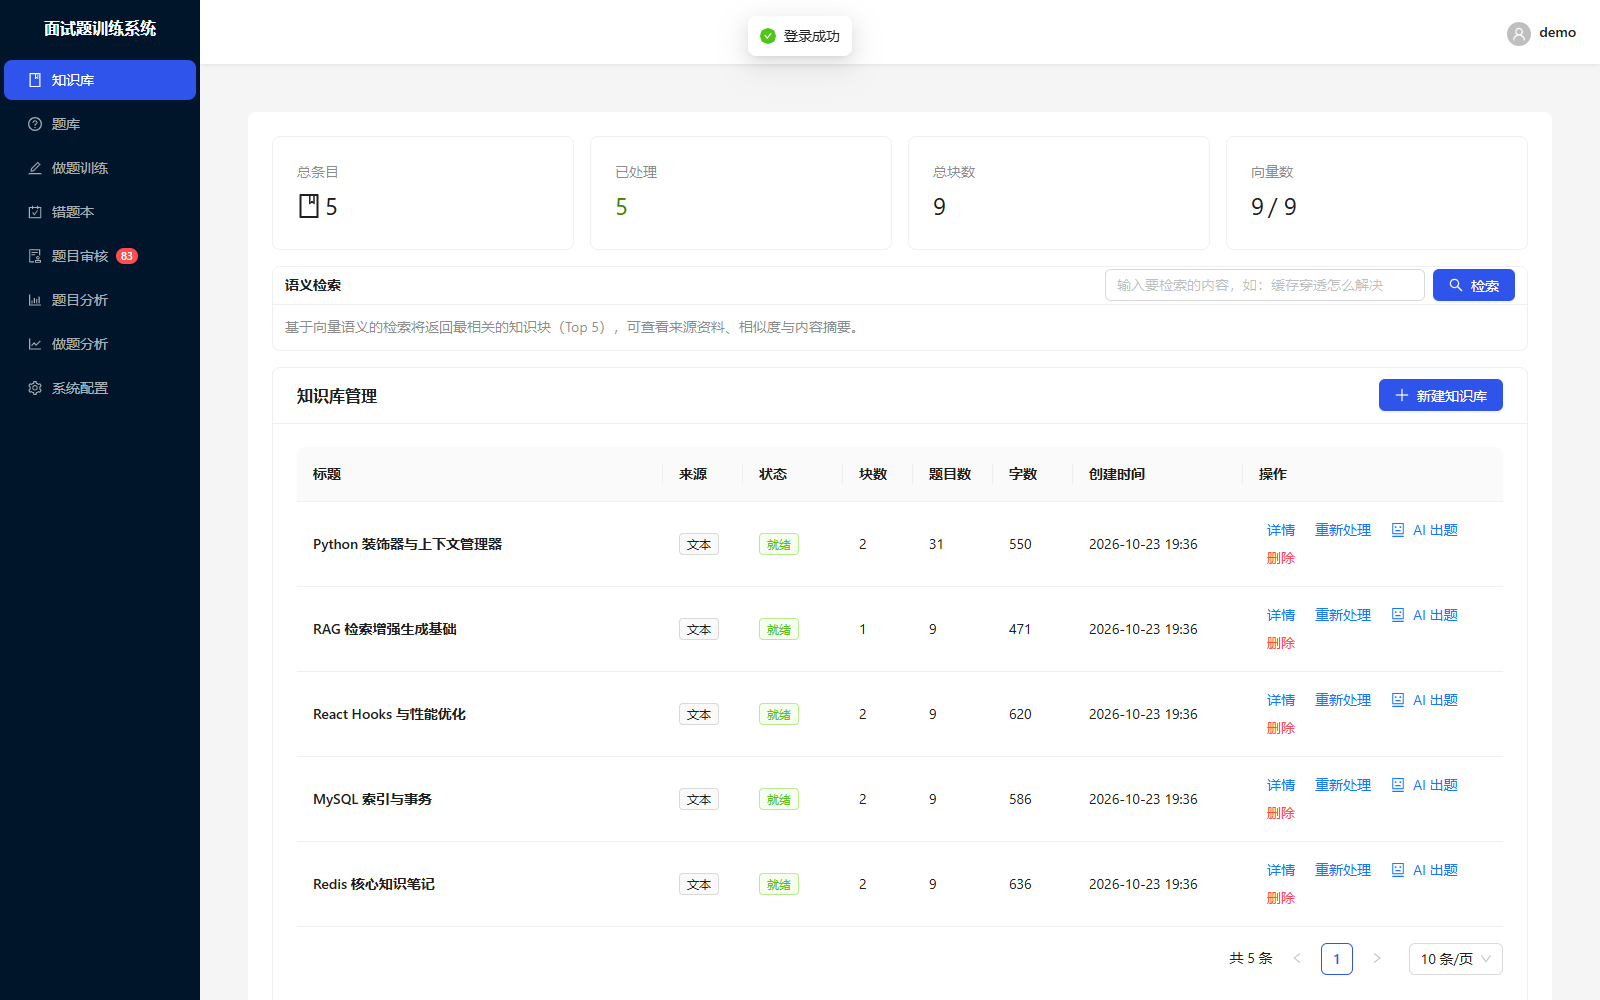
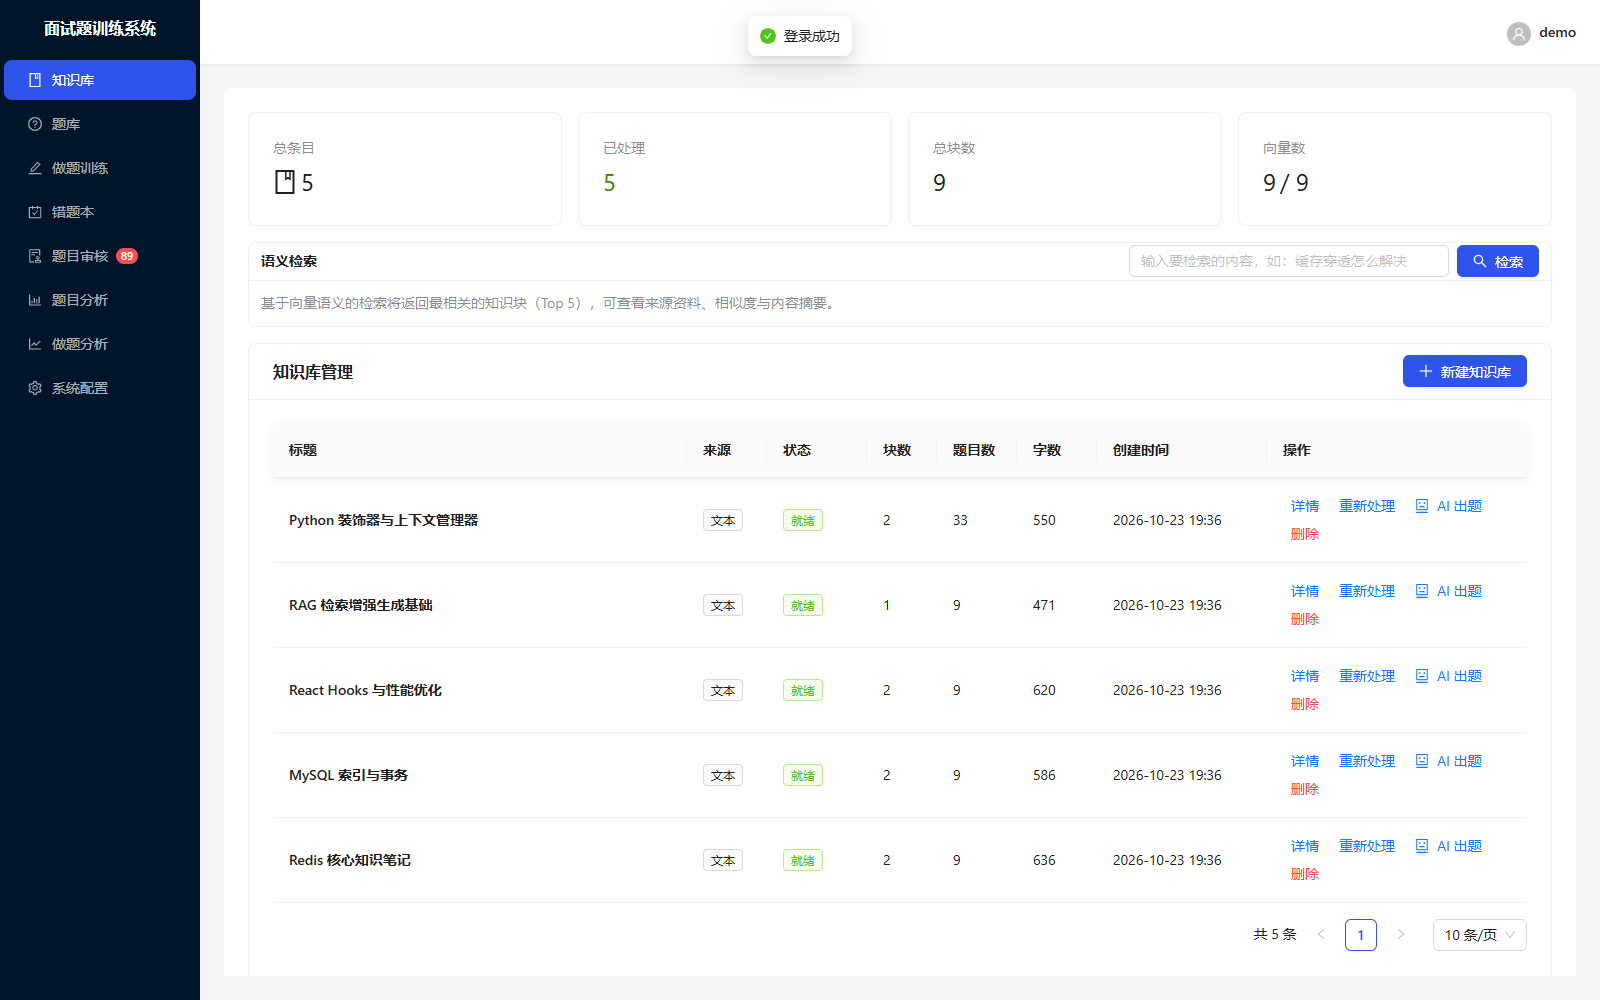
fix(ui): 固定表头 —— 5 个列表页开启 sticky，修掉 overflow/padding 两个隐藏坑
用户反馈「上下滑动时应该只是这部分滚动，栏目应该是固定的」。
上一轮已把侧栏与顶栏固定，这轮补齐表头部分。

改动：
- 新增 utils/stickyTable.ts：把滚动容器 .ant-layout-content 显式告知 Table
- KnowledgeBase / QuestionBank / Practice / WrongQuestions / Review 开启 sticky
- index.html 给 .ant-table-sticky-holder 加吸附投影

踩到并修掉的两个 CSS 坑：
1. 白色卡片的 overflow:hidden 会取代内容区成为「最近滚动容器」，
   而它自身不滚动 —— position:sticky 直接失效，表头跟着内容滚走。
2. Content 的 padding:24 会被 Chrome 计入 sticky 约束矩形（padding box），
   表头吸附位置比内容区顶部低 24px，滚动的行从缝里露出来。
   改为内边距由白色卡片自己承担。

顺带清理：删除 3 张调试截图、11 张规范截图按新布局重新生成。

验证：tsc 通过；构建 20.19s；pytest 81、smoke 72、E2E 13 全绿；
两档视口（1440x900 / 1093x620）逐页探针无页面级滚动、无横向溢出，
表头吸附 top 恒等于内容区 top，侧栏与顶栏恒为 0。

diff --git a/frontend/src/components/AppLayout.tsx b/frontend/src/components/AppLayout.tsx
@@ -127,16 +127,27 @@ export default function AppLayout() {
             </Space>
           </Dropdown>
         </Header>
+        {/*
+          内边距交给白色卡片自己承担（padding: 24）。
+          Content 自身不能有 padding：Chrome 计算 position: sticky 的约束矩形时
+          会把滚动容器的内边距算进去，导致固定表头吸附位置比内容区顶部低 24px，
+          滚动的行会从这条缝里露出来。
+        */}
         <Content
           style={{
             flex: 1,
             minHeight: 0,
             overflow: 'auto',
             margin: 24,
-            padding: 24,
             background: '#f5f5f5',
           }}
         >
+          {/*
+            注意：这里不能加 overflow: 'hidden'。
+            它会为 position: sticky 建立新的滚动容器（且自身不滚动），
+            导致 Table 的固定表头失效（表头会跟着内容一起滚走）。
+            横向溢出由各页 Table 的 scroll={{ x }} 自行处理。
+          */}
           <div
             style={{
               background: '#fff',
@@ -144,7 +155,6 @@ export default function AppLayout() {
               padding: 24,
               minHeight: '100%',
               maxWidth: '100%',
-              overflow: 'hidden',
             }}
           >
             <Outlet />

diff --git a/frontend/src/utils/stickyTable.ts b/frontend/src/utils/stickyTable.ts
@@ -1,0 +1,18 @@
+/**
+ * 表格固定表头（sticky）公共配置。
+ *
+ * 布局是「侧栏固定 + 顶栏固定 + 仅内容区滚动」（见 AppLayout），
+ * 滚动容器是 .ant-layout-content 而不是 window。rc-table 的计算逻辑
+ * 默认监听 window 的 scroll，拿不到正确偏移，所以必须显式告知容器。
+ *
+ * 配套注意事项（改布局时勿踩）：
+ * 1. 内容区 .ant-layout-content 与白色卡片都不能加 overflow: hidden，
+ *    否则它们会取代内容区成为「最近滚动容器」且自身不滚动，sticky 直接失效。
+ * 2. 内容区不能有 padding：Chrome 计算 sticky 约束矩形时会把滚动容器的
+ *    内边距算进去，表头会比内容区顶部低一个 padding 的距离。
+ */
+export const stickyTableConfig = {
+  getContainer: () =>
+    (document.querySelector('.ant-layout-content') as HTMLElement | null) ??
+    document.body,
+}

diff --git a/frontend/src/pages/WrongQuestions.tsx b/frontend/src/pages/WrongQuestions.tsx
@@ -17,6 +17,7 @@ import AITutorDrawer from '../components/AITutorDrawer'
 import { useWrongMutations, useWrongQuestions, useWrongStats } from '@/hooks/useWrongQuestions'
 import type { Difficulty, QType, WrongQuestionItem } from '@/api/types'
 import { DIFFICULTY_COLOR, DIFFICULTY_TEXT, Q_TYPE_COLOR, Q_TYPE_TEXT } from '@/utils/constants'
+import { stickyTableConfig } from '@/utils/stickyTable'
 
 export default function WrongQuestions() {
   const { message } = AntdApp.useApp()
@@ -294,6 +295,7 @@ export default function WrongQuestions() {
           columns={columns}
           dataSource={items}
           scroll={{ x: 1040 }}
+          sticky={stickyTableConfig}
           pagination={{
             current: page,
             pageSize: size,

diff --git a/frontend/src/pages/Review.tsx b/frontend/src/pages/Review.tsx
@@ -19,6 +19,7 @@ import { AuditOutlined, CheckOutlined, CloseOutlined, EditOutlined } from '@ant-
 import { useQuestionMutations, useQuestions } from '@/hooks/useQuestions'
 import type { Difficulty, QType, Question } from '../api/types'
 import { DIFFICULTY_TEXT, Q_TYPE_COLOR, Q_TYPE_TEXT } from '../utils/constants'
+import { stickyTableConfig } from '../utils/stickyTable'
 
 interface EditFormValues {
   content: string
@@ -224,6 +225,7 @@ export default function Review() {
           columns={columns}
           dataSource={items}
           scroll={{ x: 1000 }}
+          sticky={stickyTableConfig}
           rowSelection={{
             selectedRowKeys: selectedIds,
             onChange: (keys) => setSelectedIds(keys as number[]),

diff --git a/frontend/src/pages/KnowledgeBase.tsx b/frontend/src/pages/KnowledgeBase.tsx
@@ -23,6 +23,7 @@ import GenerateQuestionsModal, {
 } from '@/components/knowledge/GenerateQuestionsModal'
 import { EntryStatusTag } from '@/components/common/StatusTags'
 import { fmtTime, SOURCE_TYPE_TEXT } from '@/utils/constants'
+import { stickyTableConfig } from '@/utils/stickyTable'
 
 export default function KnowledgeBase() {
   const { message } = AntdApp.useApp()
@@ -272,6 +273,7 @@ export default function KnowledgeBase() {
           dataSource={rows}
           loading={loading}
           scroll={{ x: 1200 }}
+          sticky={stickyTableConfig}
           pagination={{
             current: page,
             pageSize: size,

diff --git a/frontend/src/pages/QuestionBank.tsx b/frontend/src/pages/QuestionBank.tsx
@@ -17,6 +17,7 @@ import {
   Q_TYPE_TEXT,
   truncate,
 } from '../utils/constants'
+import { stickyTableConfig } from '../utils/stickyTable'
 
 interface FilterForm {
   q_type?: QType
@@ -235,6 +236,7 @@ export default function QuestionBank() {
           dataSource={rows}
           loading={loading}
           scroll={{ x: 1100 }}
+          sticky={stickyTableConfig}
           pagination={{
             current: page,
             pageSize: size,

diff --git a/frontend/src/pages/Practice.tsx b/frontend/src/pages/Practice.tsx
@@ -14,6 +14,7 @@ import {
   QTYPES,
   Q_TYPE_TEXT,
 } from '../utils/constants'
+import { stickyTableConfig } from '../utils/stickyTable'
 
 interface GenForm {
   title?: string
@@ -163,6 +164,7 @@ export default function Practice() {
           dataSource={rows}
           loading={loading}
           scroll={{ x: 900 }}
+          sticky={stickyTableConfig}
           pagination={{
             current: page,
             pageSize: size,

diff --git a/frontend/index.html b/frontend/index.html
@@ -25,6 +25,10 @@
         font-size: 15px;
         font-family: system-ui, -apple-system, 'Segoe UI', sans-serif;
       }
+      /* 固定表头（Table sticky）：吸附时加一道投影，与下方滚动行做视觉分层 */
+      .ant-table-sticky-holder {
+        box-shadow: 0 2px 8px rgba(0, 21, 41, 0.08);
+      }
     </style>
   </head>
   <body>

diff --git a/docs/04-前端重构规划.md b/docs/04-前端重构规划.md
@@ -163,3 +163,25 @@ ECharts 5（图表） + axios + react-router 6
 2. SQLite WAL：修复并发出题与草稿保存的 `database is locked`
 3. axios 出题超时 60s → 300s（配置真实 LLM 后才暴露）
 4. **测试污染生产配置**：`test_settings.py` 直接操作真实库（clear_overrides 清空 Key）→ 改为内存库 fixture 隔离；smoke 的 reset/改配置用例改为非破坏性；E2E 讲题步骤按 LLM 配置状态分支（未配置则 SKIP）
+
+---
+
+## 9. UI / 布局专项（用户反馈驱动的 6 个连环缺陷）
+
+这一串问题都不是"调个颜色"就能了事的，每个都有独立的 CSS 机制成因，记录在此便于回归排查。
+
+| # | 现象 | 根因 | 修法 |
+|---|---|---|---|
+| 1 | 深色侧栏上"题目审核"文字看不清（黑字压黑底） | antd `Badge` 的 CSS 强制 `color: rgba(0,0,0,0.88)`，且 `style` prop 不透传（`inlineStyle: null`） | 弃用 Badge，手写红点徽标并显式 `color: inherit` |
+| 2 | 表格内容溢出卡片、无滚动条 | 页面 Table 未配 `scroll`，容器 `overflow: visible` | 各表加 `scroll={{ x }}` + 操作列 `fixed: 'right'` |
+| 3 | 操作按钮"拒绝"被截断 | 按钮组 248px > 列宽 210px | 文案"编辑后通过"→"编辑"，列宽 220px（按钮 206px） |
+| 4 | 页面四周一圈白边，内容不贴合视口 | 项目没有任何全局重置，浏览器默认 `body { margin: 8px }` | `index.html` 内重置 `html, body, #root { margin:0; padding:0; height:100% }` |
+| 5 | 整页一起滚动，侧栏会滚出视野 | 布局用 `min-height` 撑高，滚动发生在 document 层 | 外层 `height:100vh; overflow:hidden`，Content `flex:1; minHeight:0; overflow:auto` |
+| 6 | 表格滚很长后看不见列名 | Table 未开 `sticky` | 5 个列表页加 `sticky={stickyTableConfig}`（见 `utils/stickyTable.ts`） |
+
+**第 6 项踩到的两个隐藏坑（改布局时勿踩）**：
+
+1. **`overflow: hidden` 会劫持 sticky 的滚动参照物。** 白色卡片上原有一句 `overflow: hidden`（早期用来挡横向溢出）。它让该 div 成为 sticky 元素的"最近滚动容器"，但它自身永远不滚动 → 表头跟着内容一起滚走，`position: sticky` 形同虚设。祖先链上任何一层 `overflow: hidden / auto / scroll` 都要检查。
+2. **滚动容器的 `padding` 会被算进 sticky 约束矩形。** Content 原有 `padding: 24`，Chrome 以滚动容器的 **padding box** 作为 sticky view rectangle，表头吸附位置就比内容区顶部低了 24px，滚动的行会从那条缝里露出来。改为内边距由白色卡片自己承担。
+
+> 验证基线：`pytest 81 / smoke 72 / E2E 13` 全绿；两档视口（1440×900、1093×620）逐页探针确认 `pageScrollable=false`、`pageOverflowX=false`、表头吸附 `top === 内容区 top`、侧栏与顶栏恒为 0。
